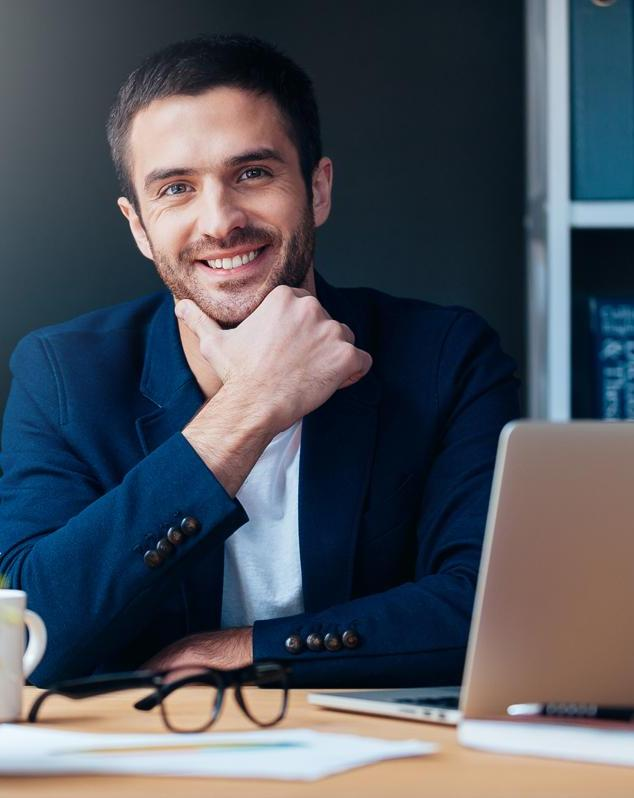
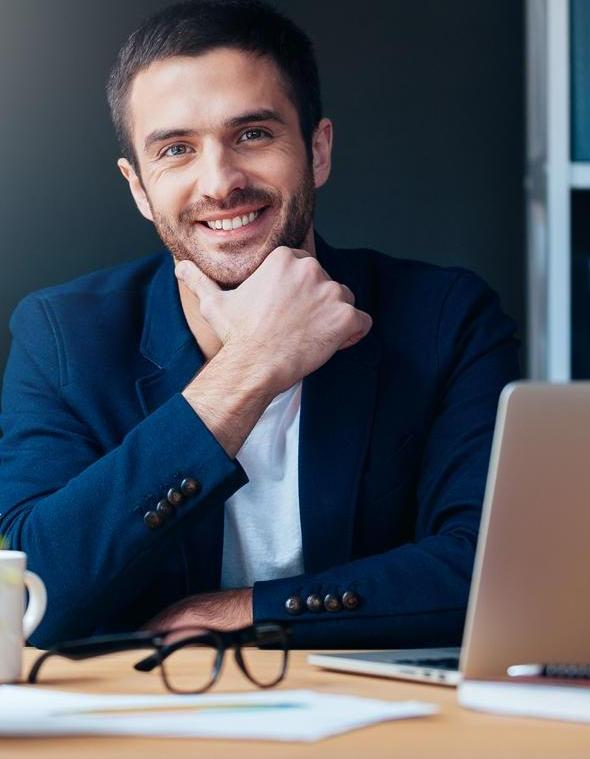
added absolute position button on 43

diff --git a/UIPEP-W1D2/style2.css b/UIPEP-W1D2/style2.css
@@ -69,9 +69,11 @@ li{
 .main-text{
     padding: 150px;
     padding-left: 70px;
-    padding-bottom: 45px;
+    padding-bottom: 118px;
+    display: inline-flex;
+    width:100%;
 }
-.main-text1{
+.main-sub{
     font-family:'Segoe UI', Tahoma, Geneva, Verdana, sans-serif;
     font-size: xxx-large;
 }
@@ -88,7 +90,7 @@ li{
     font-family:monospace;
     font-size: xx-large;
     font-weight: bold;
-    padding: 30px 60px 30px 60px;
+    padding: 20px 50px 20px 50px;
     background-image: linear-gradient(#ff9900,#fad60e);
     border-radius: 10px;
 }
@@ -99,40 +101,59 @@ li{
     box-shadow: 8px 8px 10px  rgb(245, 190, 109);
 }
 .side-images{
-    padding-top: 25px;
     display:inline-flex;
-    float: right;
+    align-items: flex-end;
+    position: absolute;
+    left: 560px;
 }
 .image{
-    filter: drop-shadow(8px 8px 8px rgb(250, 201, 110));
+    /* Apply shadow*/
 }
 .image1{
     /* inherits from .image */
     height: 250px;
-    width: 200px;
+    width:  205px;
     
 }
 .image2{
     /* inherits from .image */
-    padding-top: 8px;
-    height: 280px;
-    width: 220px;
+    height: 325px;
+    width: 290px;
 }
-.image3{
+.image3{    
     /* inherits from .image */
-    padding-top: 16px;
-    height: 310px;
-    width: 230px;
+    height: 400px;
+    width: 290px;
+}
+.sib{
+    z-index: 1;
+    border-radius: 5px;
+    padding: 6px;
+    font-family:'Segoe UI', Tahoma, Geneva, Verdana, sans-serif;
+    color: white;
+    background-color: rgba(0,0,0,0.25);
+    font-size: small;
+    font-weight: bolder;
+    position: absolute;
+    top:570px;
+}
+.sib1{
+    left:580px;    
+}
+.sib2{
+    left:875px;    
+}
+.sib3{
+    left:1140px;
 }
 .features{
-    height: 900px;
+    max-width: 100%; ;
     padding: 100px;
     padding-top: 20px;
     background-color: white;
 }
 .feature-img{
     display:flex;
-    justify-content: space-between;
     align-items: stretch;
     height: 400px;
 }
@@ -144,6 +165,7 @@ li{
 
 .fimage{
     padding: 40px;
+    padding-left: 60px;
     height: 80%;
     width: 100%;
 }

diff --git a/UIPEP-W1D2/index2.html b/UIPEP-W1D2/index2.html
@@ -24,7 +24,7 @@
 
     <div class= "main-text">
         <div class= "only-text">
-            <h1 class= "main-text1">Grow your audience.</br>Get more clients.</h1>
+            <h1 class= "main-sub">Grow your audience.</br>Get more clients.</h1>
         <br/>
         <span class= "sub-text">
             Create a page to promote who are</br>and what you do in one link.
@@ -39,6 +39,11 @@
             <img class="image image2" src= "C:\Users\USER\Documents\GitHub\UIPEP-Internship\UIPEP-W1D2\images\me2.jpg" alt ="It's someone else">
             <img class="image image3" src= "C:\Users\USER\Documents\GitHub\UIPEP-Internship\UIPEP-W1D2\images\me3.jpg" alt ="Who is it">
         </div>
+    </div>
+    <div class="si-but">
+        <button class="sib sib1" type="button">Schedule an appointment</button>
+        <button class="sib sib2" type="button">Contact me</button>
+        <button class="sib sib3" type="button">Download my paper</button>
     </div>
 
     <div class= "features">
